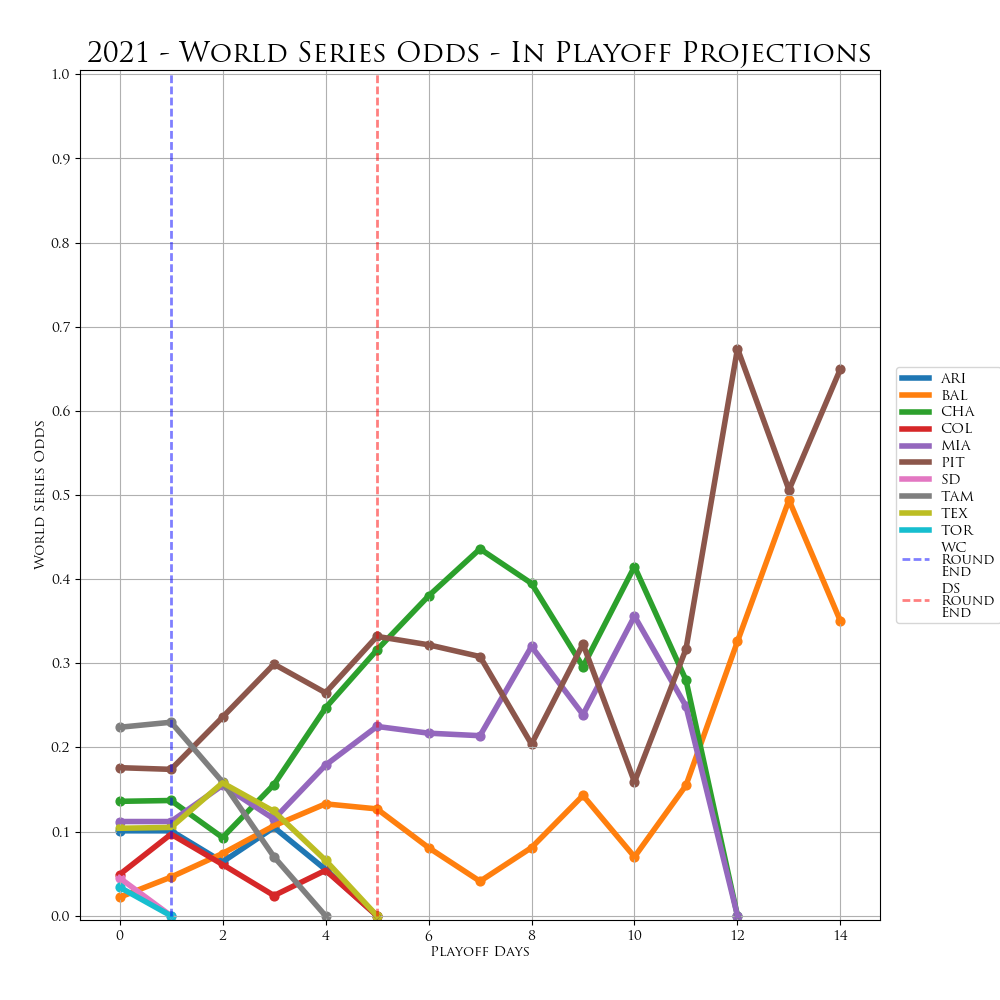
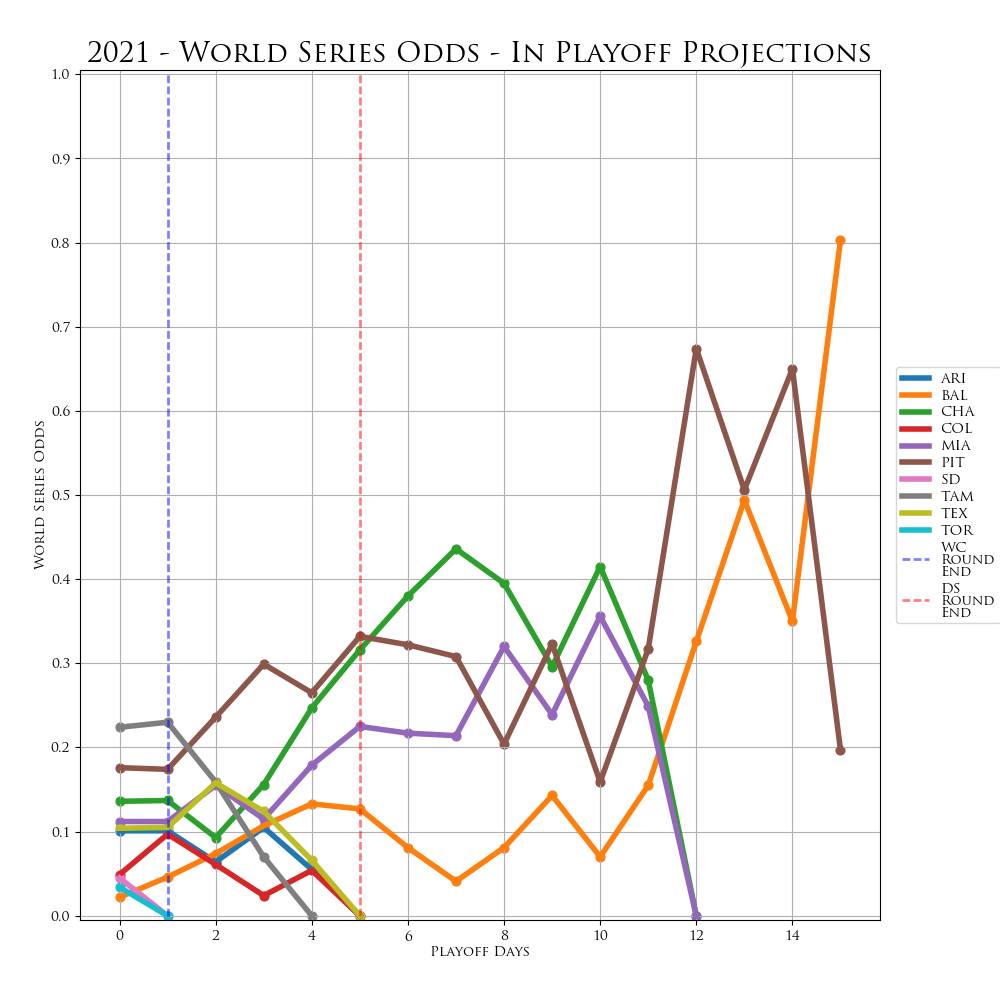
playoff NSBL update (Dec 02, 2021)

Changed region(s): [[0.124, 0.093, 0.837, 0.93], [0.837, 0.713, 0.868, 0.775], [0.837, 0.217, 0.868, 0.279]]

diff --git a/Tables/in_playoff_bracket.html b/Tables/in_playoff_bracket.html
@@ -255,7 +255,7 @@ c+"</h1><div>"+("function"===typeof e.message?e.message(b,h,e):e.message)+"</div
 </script>
 <script>
 		$(document).ready(function() {
-			$("#table").DataTable({"scroller":true,"dom":"Bfrtip","sScrollX":"100%","scrollY":"70vh","buttons":["copy","csv","json","print"],"paging":true,"bPaginate":false,"bLengthChange":false,"deferRender":true,"data":[["ALCS","Baltimore Orioles","Chicago White Sox","4","3","100.0%","","","","","100.0%"],["ALCS","Chicago White Sox","Baltimore Orioles","3","4","0.0%","","","","",""],["ALDS1","Baltimore Orioles","Tampa Bay Rays","3","0","100.0%","100.0%","","","",""],["ALDS1","Tampa Bay Rays","Baltimore Orioles","0","3","0.0%","","","","",""],["ALDS2","Chicago White Sox","Texas Rangers","3","1","100.0%","","100.0%","","",""],["ALDS2","Texas Rangers","Chicago White Sox","1","3","0.0%","","","","",""],["ALWC","Baltimore Orioles","Toronto Blue Jays","1","0","100.0%","","","","",""],["ALWC","Toronto Blue Jays","Baltimore Orioles","0","1","0.0%","","","","",""],["NLCS","Miami Marlins","Pittsburgh Pirates","3","4","0.0%","","","","",""],["NLCS","Pittsburgh Pirates","Miami Marlins","4","3","100.0%","","","","","100.0%"],["NLDS1","Colorado Rockies","Pittsburgh Pirates","1","3","0.0%","","","","",""],["NLDS1","Pittsburgh Pirates","Colorado Rockies","3","1","100.0%","","100.0%","","",""],["NLDS2","Arizona Diamondbacks","Miami Marlins","1","3","0.0%","","","","",""],["NLDS2","Miami Marlins","Arizona Diamondbacks","3","1","100.0%","","100.0%","","",""],["NLWC","Colorado Rockies","San Diego Padres","1","0","100.0%","","","","",""],["NLWC","San Diego Padres","Colorado Rockies","0","1","0.0%","","","","",""],["WS","Baltimore Orioles","Pittsburgh Pirates","1","1","35.0%","","","7.3%","12.8%","14.9%"],["WS","Pittsburgh Pirates","Baltimore Orioles","1","1","65.0%","","","19.7%","24.7%","20.7%"]],"sScrollXInner":"100%","columns":[{"title":"Series ID"},{"title":"Team Name"},{"title":"Opponent Name"},{"title":"Series Wins"},{"title":"Series Losses"},{"title":"Advance Probability"},{"title":"Win in 3"},{"title":"Win in 4"},{"title":"Win in 5"},{"title":"Win in 6"},{"title":"Win in 7"}],"iDisplayLength":-1});
+			$("#table").DataTable({"scroller":true,"dom":"Bfrtip","sScrollX":"100%","scrollY":"70vh","buttons":["copy","csv","json","print"],"paging":true,"bPaginate":false,"bLengthChange":false,"deferRender":true,"data":[["ALCS","Baltimore Orioles","Chicago White Sox","4","3","100.0%","","","","","100.0%"],["ALCS","Chicago White Sox","Baltimore Orioles","3","4","0.0%","","","","",""],["ALDS1","Baltimore Orioles","Tampa Bay Rays","3","0","100.0%","100.0%","","","",""],["ALDS1","Tampa Bay Rays","Baltimore Orioles","0","3","0.0%","","","","",""],["ALDS2","Chicago White Sox","Texas Rangers","3","1","100.0%","","100.0%","","",""],["ALDS2","Texas Rangers","Chicago White Sox","1","3","0.0%","","","","",""],["ALWC","Baltimore Orioles","Toronto Blue Jays","1","0","100.0%","","","","",""],["ALWC","Toronto Blue Jays","Baltimore Orioles","0","1","0.0%","","","","",""],["NLCS","Miami Marlins","Pittsburgh Pirates","3","4","0.0%","","","","",""],["NLCS","Pittsburgh Pirates","Miami Marlins","4","3","100.0%","","","","","100.0%"],["NLDS1","Colorado Rockies","Pittsburgh Pirates","1","3","0.0%","","","","",""],["NLDS1","Pittsburgh Pirates","Colorado Rockies","3","1","100.0%","","100.0%","","",""],["NLDS2","Arizona Diamondbacks","Miami Marlins","1","3","0.0%","","","","",""],["NLDS2","Miami Marlins","Arizona Diamondbacks","3","1","100.0%","","100.0%","","",""],["NLWC","Colorado Rockies","San Diego Padres","1","0","100.0%","","","","",""],["NLWC","San Diego Padres","Colorado Rockies","0","1","0.0%","","","","",""],["WS","Baltimore Orioles","Pittsburgh Pirates","3","1","80.3%","","","41.8%","24.3%","14.2%"],["WS","Pittsburgh Pirates","Baltimore Orioles","1","3","19.7%","","","","","19.7%"]],"sScrollXInner":"100%","columns":[{"title":"Series ID"},{"title":"Team Name"},{"title":"Opponent Name"},{"title":"Series Wins"},{"title":"Series Losses"},{"title":"Advance Probability"},{"title":"Win in 3"},{"title":"Win in 4"},{"title":"Win in 5"},{"title":"Win in 6"},{"title":"Win in 7"}],"iDisplayLength":-1});
 		});
 	</script>
 <style>

diff --git a/Tables/in_playoff_probabilities.html b/Tables/in_playoff_probabilities.html
@@ -227,7 +227,7 @@ c+"</h1><div>"+("function"===typeof e.message?e.message(b,h,e):e.message)+"</div
 </script>
 <script>
 		$(document).ready(function() {
-			$("#table").DataTable({"dom":"Bfrtip","sScrollX":"100%","scrollY":"70vh","buttons":["copy","csv","json","print"],"paging":true,"lengthMenu":[[-1,10,25,50],["All",10,25,50]],"data":[["Arizona Diamondbacks","100.0%","0.0%","","100.0%","0.0%","0.0%","0.0%"],["Baltimore Orioles","0.0%","100.0%","100.0%","100.0%","100.0%","100.0%","35.0%"],["Chicago White Sox","100.0%","0.0%","","100.0%","100.0%","0.0%","0.0%"],["Colorado Rockies","0.0%","100.0%","100.0%","100.0%","0.0%","0.0%","0.0%"],["Miami Marlins","100.0%","0.0%","","100.0%","100.0%","0.0%","0.0%"],["Pittsburgh Pirates","100.0%","0.0%","","100.0%","100.0%","100.0%","65.0%"],["San Diego Padres","0.0%","100.0%","0.0%","0.0%","0.0%","0.0%","0.0%"],["Tampa Bay Rays","100.0%","0.0%","","100.0%","0.0%","0.0%","0.0%"],["Texas Rangers","100.0%","0.0%","","100.0%","0.0%","0.0%","0.0%"],["Toronto Blue Jays","0.0%","100.0%","0.0%","0.0%","0.0%","0.0%","0.0%"]],"sScrollXInner":"100%","columns":[{"title":"Team Name"},{"title":"Win Div"},{"title":"Make Wild Card"},{"title":"Win Wild Card"},{"title":"Make LDS"},{"title":"Make LCS"},{"title":"Make WS"},{"title":"Win WS"}],"iDisplayLength":-1});
+			$("#table").DataTable({"dom":"Bfrtip","sScrollX":"100%","scrollY":"70vh","buttons":["copy","csv","json","print"],"paging":true,"lengthMenu":[[-1,10,25,50],["All",10,25,50]],"data":[["Arizona Diamondbacks","100.0%","0.0%","","100.0%","0.0%","0.0%","0.0%"],["Baltimore Orioles","0.0%","100.0%","100.0%","100.0%","100.0%","100.0%","80.3%"],["Chicago White Sox","100.0%","0.0%","","100.0%","100.0%","0.0%","0.0%"],["Colorado Rockies","0.0%","100.0%","100.0%","100.0%","0.0%","0.0%","0.0%"],["Miami Marlins","100.0%","0.0%","","100.0%","100.0%","0.0%","0.0%"],["Pittsburgh Pirates","100.0%","0.0%","","100.0%","100.0%","100.0%","19.7%"],["San Diego Padres","0.0%","100.0%","0.0%","0.0%","0.0%","0.0%","0.0%"],["Tampa Bay Rays","100.0%","0.0%","","100.0%","0.0%","0.0%","0.0%"],["Texas Rangers","100.0%","0.0%","","100.0%","0.0%","0.0%","0.0%"],["Toronto Blue Jays","0.0%","100.0%","0.0%","0.0%","0.0%","0.0%","0.0%"]],"sScrollXInner":"100%","columns":[{"title":"Team Name"},{"title":"Win Div"},{"title":"Make Wild Card"},{"title":"Win Wild Card"},{"title":"Make LDS"},{"title":"Make LCS"},{"title":"Make WS"},{"title":"Win WS"}],"iDisplayLength":-1});
 		});
 	</script>
 <style>
